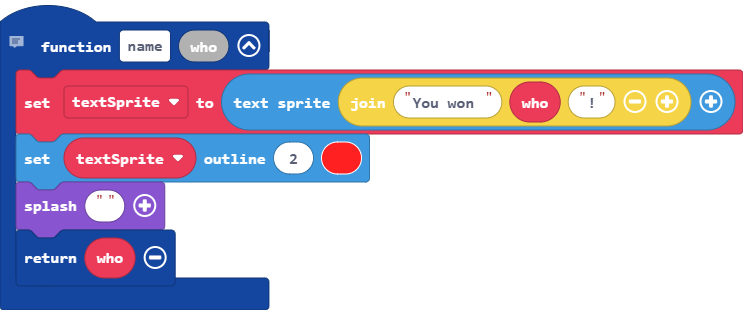
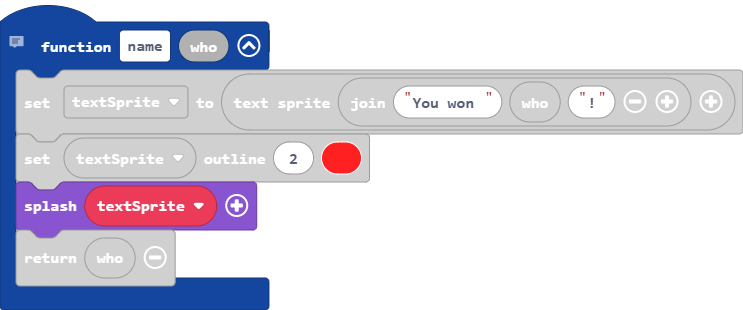
Update main.blocks, main.ts

diff --git a/main.ts b/main.ts
@@ -6,7 +6,7 @@ namespace SpriteKind {
 function name (who: string) {
     textSprite = textsprite.create("You won " + who + "!")
     textSprite.setOutline(2, 2)
-    game.splash("")
+    game.splash(textSprite)
     return who
 }
 controller.up.onEvent(ControllerButtonEvent.Pressed, function () {
